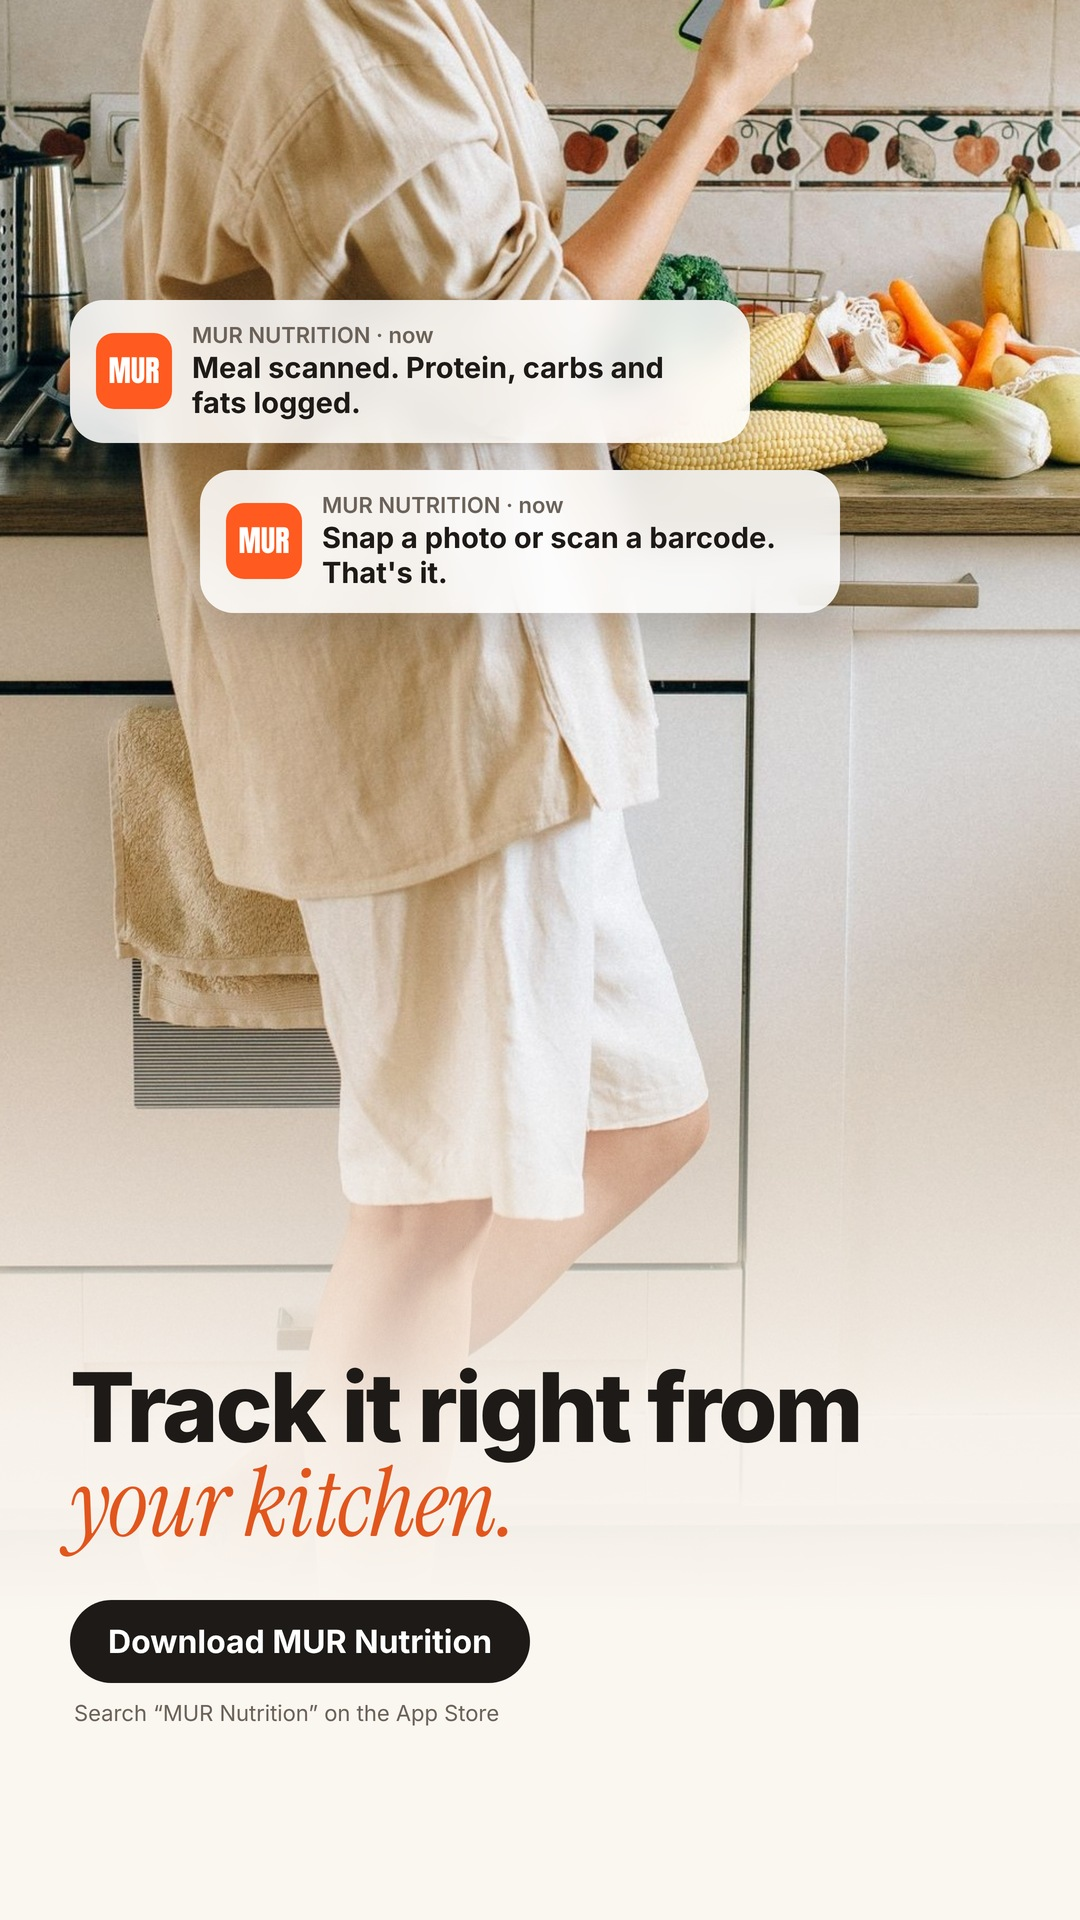
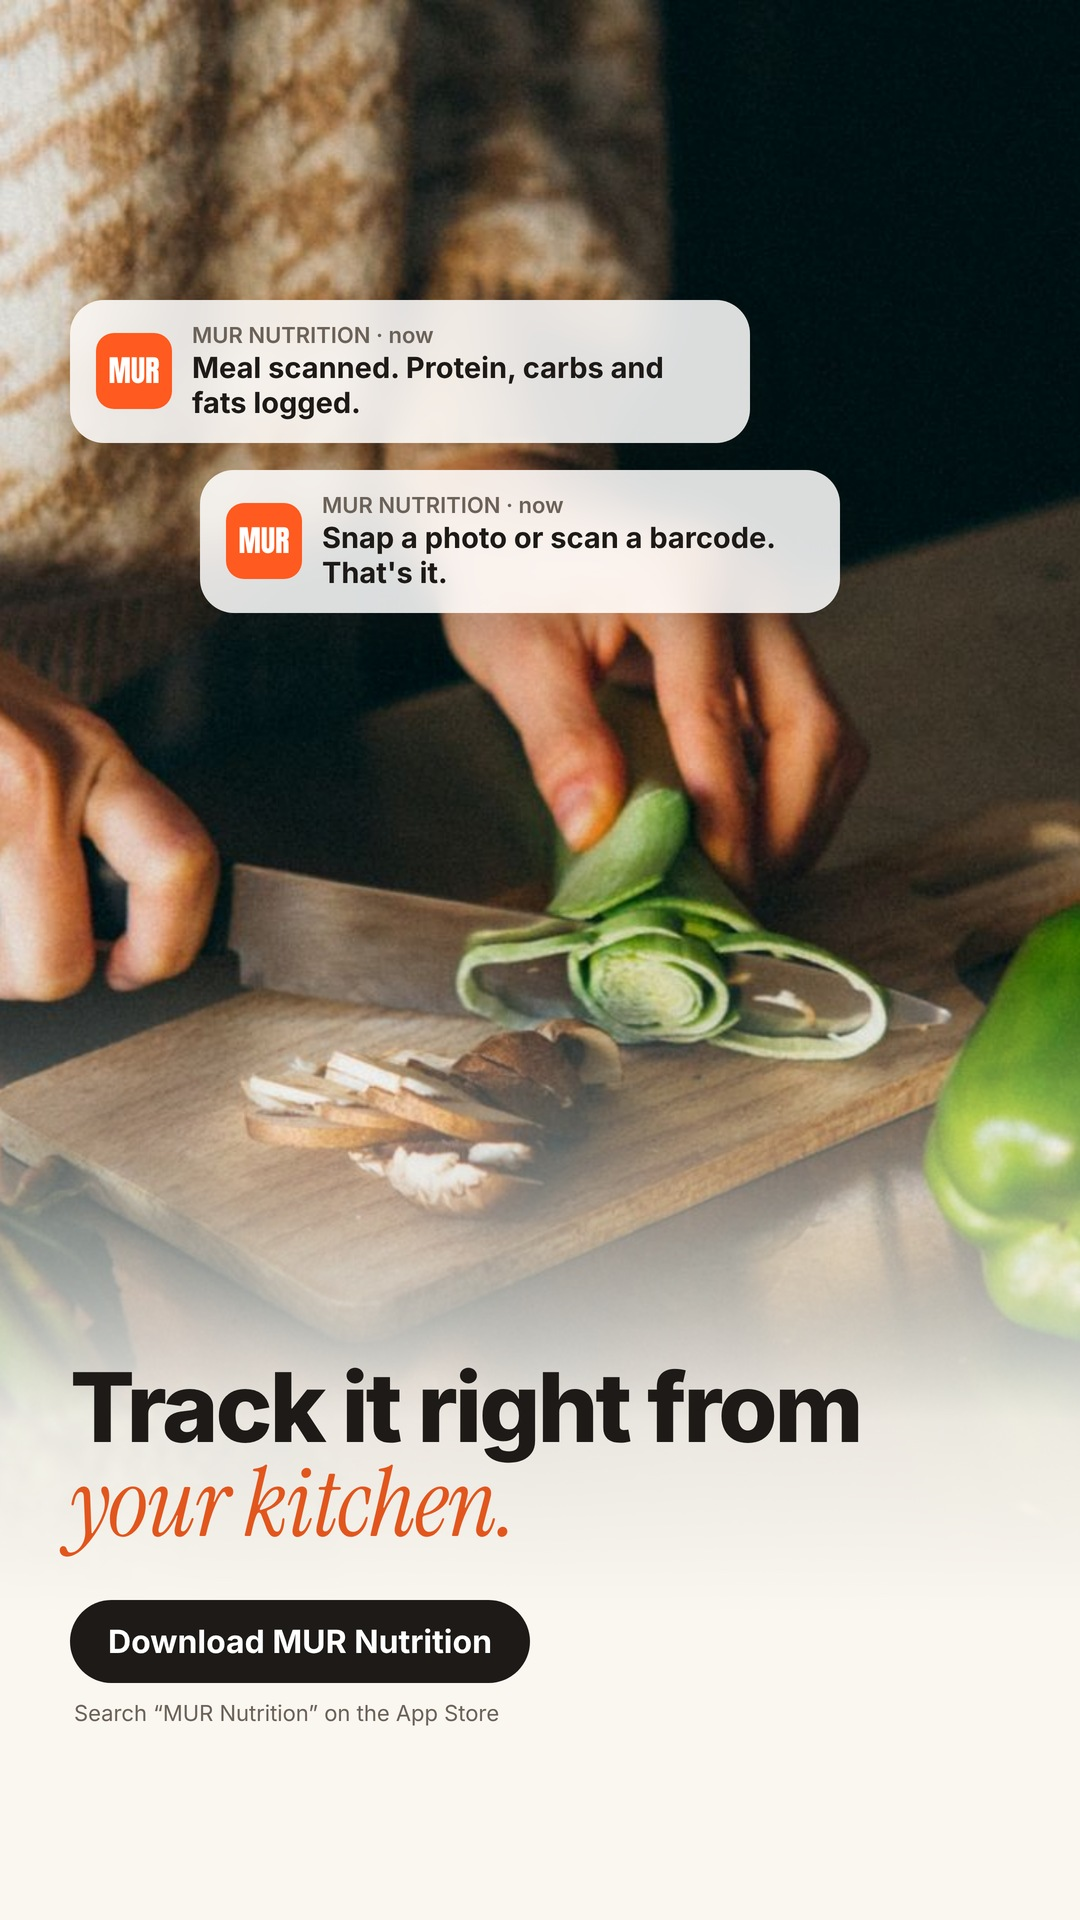
Replace stock photos that had faces with face-free ones
Claude-Session: https://claude.ai/code/session_017HSKiNeiAo8juCP26dAmad

diff --git a/story_templates/week.html b/story_templates/week.html
@@ -85,7 +85,7 @@ body{width:1080px;height:1920px;overflow:hidden;background:#111}
 .s5 .sub{left:72px;top:1712px;font-family:Inter;font-size:22px;color:#9bb7bf}
 
 /* ---------- 6 bright kitchen (notifications) ---------- */
-.s6 .cover{background-image:url(assets/k_kitchenwoman.jpg);background-position:center 30%}
+.s6 .cover{background-image:url(assets/k_kitchen.jpg);background-position:center 30%}
 .s6 .fade{position:absolute;inset:0;background:linear-gradient(180deg,rgba(255,255,255,0) 50%,rgba(250,246,240,.92) 74%,#faf6f0 84%)}
 .s6 .n{left:70px;width:680px;background:rgba(255,255,255,.86);backdrop-filter:blur(18px);border-radius:34px;padding:22px 26px;display:flex;gap:20px;align-items:center;box-shadow:0 18px 40px rgba(40,30,20,.18);font-family:Inter}
 .s6 .n .ic{width:76px;height:76px;border-radius:18px;background:#ff5a1f;color:#fff;font-family:Anton;font-size:30px;display:grid;place-items:center;flex:none;line-height:1}
@@ -180,7 +180,7 @@ S[6]=`<div class="st s6"><div class="cover"></div><div class="fade"></div>
 S[7]=`<div class="st s7"><div class="paper"></div>
  ${L(0,0,52,'#ff5a1f','#1a1a1a',810,250)}
  <div class="abs h"><span>Train with</span><br><span>your coach.</span></div>
- <div class="pol" style="left:40px;top:690px;width:420px;height:520px;transform:rotate(-7deg)"><div style="background-image:url(assets/k_photofood.jpg)"></div><small>meals ✓</small></div>
+ <div class="pol" style="left:40px;top:690px;width:420px;height:520px;transform:rotate(-7deg)"><div style="background-image:url(assets/k_snapfruit.jpg)"></div><small>meals ✓</small></div>
  <div class="pol" style="left:600px;top:1050px;width:420px;height:500px;transform:rotate(6deg)"><div style="background-image:url(assets/bg_dumbbell.jpg);background-position:center 40%"></div><small>sessions ✓</small></div>
  <div class="tape" style="left:170px;top:668px;transform:rotate(-12deg)"></div>
  <div class="tape" style="left:740px;top:1030px;transform:rotate(9deg)"></div>

diff --git a/story_examples/PHOTO_CREDITS.md b/story_examples/PHOTO_CREDITS.md
@@ -1,10 +1,23 @@
 # Photo credits
 
-Stock photos are from Pexels (free for commercial use under the Pexels License, https://www.pexels.com/license/):
+Stock photos are from Pexels (free for commercial use under the Pexels License, https://www.pexels.com/license/).
+Rule: stock photos must show no person's face. Every photo below is hands, food or kitchen only.
 
-- Phone photographing a bowl of food (story 2): https://www.pexels.com/photo/person-taking-photo-of-dish-in-bowl-3296547/
-- Meal prep flat lay (story 4): https://www.pexels.com/photo/top-view-of-dishes-on-table-4929677/
-- Woman holding cellphone in the kitchen (story 6): https://www.pexels.com/photo/woman-holding-cellphone-in-the-kitchen-8939262/
-- Woman taking a photo of food (story 7): https://www.pexels.com/photo/a-woman-taking-photo-of-a-food-7669771/
+- Phone photographing a bowl: https://www.pexels.com/photo/3296547/
+- Phone photographing veggies: https://www.pexels.com/photo/3850272/
+- Meal prep flat lay: https://www.pexels.com/photo/4929677/
+- Meal prep containers: https://www.pexels.com/photo/6995262/
+- Lunch box: https://www.pexels.com/photo/32287751/
+- Photographing a plate (dark): https://www.pexels.com/photo/3296541/
+- Phone over breakfast: https://www.pexels.com/photo/4692171/
+- Photographing fresh fruit (story 7): https://www.pexels.com/photo/7791108/
+- Photographing a meal on a red table: https://www.pexels.com/photo/8951603/
+- Meal prep containers with hand: https://www.pexels.com/photo/4929705/
+- Chopping vegetables in the kitchen (story 6): https://www.pexels.com/photo/5677302/
+- Cutting red peppers: https://www.pexels.com/photo/7262345/
+- Chopping cucumber: https://www.pexels.com/photo/10432413/
+- Chopping herbs: https://www.pexels.com/photo/8279852/
+- Chopping celery: https://www.pexels.com/photo/8805280/
+- Chicken meal in a container: https://www.pexels.com/photo/30635702/
 
 All other imagery (app screens, phones, workout clips) is MUR Nutrition's own material.
